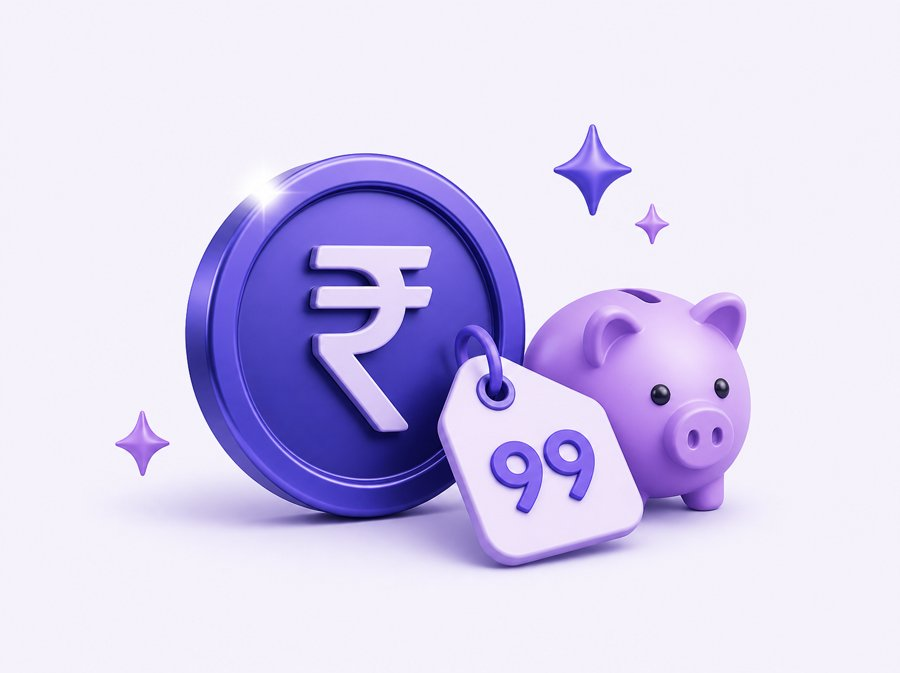
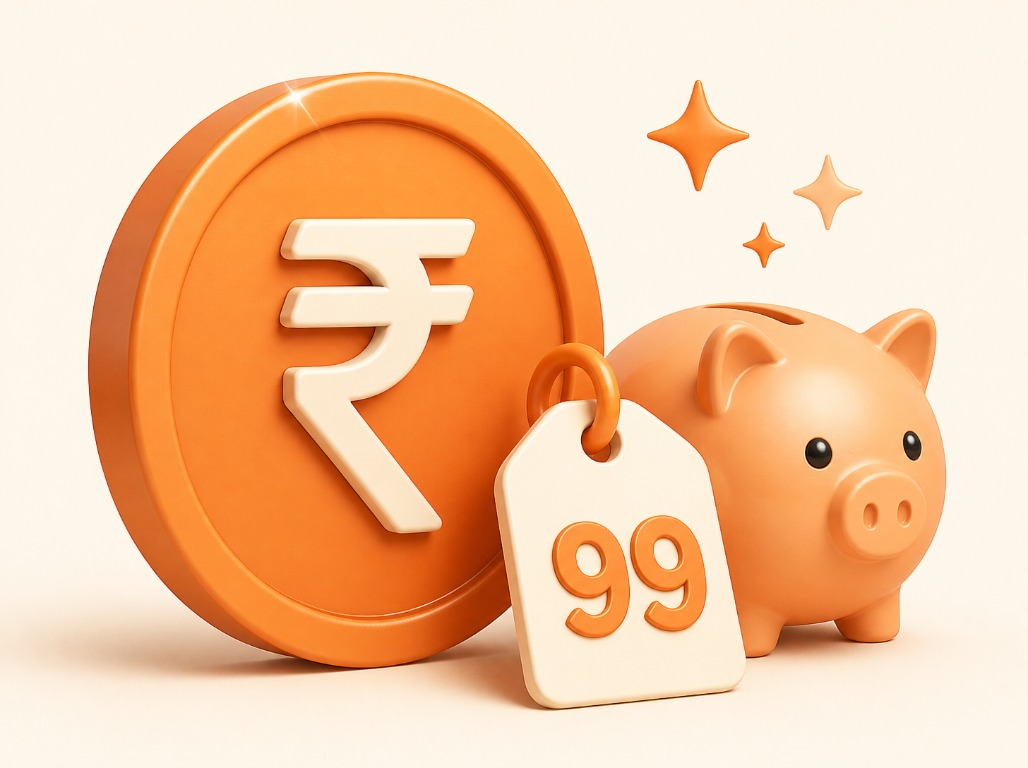
Use orange artwork across website

diff --git a/index.html b/index.html
@@ -155,8 +155,8 @@ section{padding:100px 0;scroll-margin-top:80px}
 .prod{background:#fff;border:1px solid var(--line);border-radius:var(--radius);overflow:hidden;display:flex;flex-direction:column;transition:transform .3s,box-shadow .3s}
 .prod:hover{transform:translateY(-6px);box-shadow:var(--shadow)}
 .prod .thumb{aspect-ratio:4/3;background:var(--beige);position:relative;overflow:hidden}
-.prod .thumb svg{width:100%;height:100%;transition:transform .5s}
-.prod:hover .thumb svg{transform:scale(1.06)}
+.prod .thumb img{width:100%;height:100%;object-fit:cover;transition:transform .5s}
+.prod:hover .thumb img{transform:scale(1.06)}
 .prod .badge{position:absolute;top:14px;left:14px;background:var(--orange);color:#fff;font-family:var(--head);font-weight:700;font-size:12px;padding:4px 12px;border-radius:30px}
 .prod .body{padding:22px 22px 24px;display:flex;flex-direction:column;flex:1}
 .prod .cat{font-size:12.5px;color:var(--orange);font-weight:600;text-transform:uppercase;letter-spacing:.08em}
@@ -471,7 +471,7 @@ window.setTimeout(function(){
       </div>
 
       <div class="hero-art rv in">
-        <img src="hero-orange.jpg" alt="Orange website displayed on a tablet with video and learning materials">
+        <img src="website.jpg" alt="Website design displayed on a laptop and phone in warm orange tones">
         <div class="hero-badge">
           <div class="p">₹99</div>
           <div><b style="font-family:var(--head)">One-time</b><small>No subscription</small></div>
@@ -571,15 +571,7 @@ window.setTimeout(function(){
         <article class="prod rv">
           <div class="thumb">
             <span class="badge">Ready to use</span>
-            <svg viewBox="0 0 300 225" preserveAspectRatio="xMidYMid slice" aria-hidden="true">
-              <rect width="300" height="225" fill="#EADDC8"></rect>
-              <rect x="50" y="40" width="200" height="145" rx="8" fill="#fff"></rect>
-              <rect x="50" y="40" width="200" height="18" rx="8" fill="#1D1D1F"></rect><rect x="50" y="50" width="200" height="8" fill="#1D1D1F"></rect>
-              <rect x="64" y="74" width="80" height="10" rx="3" fill="#1D1D1F"></rect><rect x="64" y="90" width="60" height="10" rx="3" fill="#1D1D1F"></rect>
-              <rect x="64" y="110" width="40" height="14" rx="3" fill="#FF7A45"></rect>
-              <rect x="160" y="70" width="76" height="60" rx="6" fill="#FF7A45"></rect>
-              <rect x="64" y="144" width="52" height="28" rx="4" fill="#F8F3EC"></rect><rect x="124" y="144" width="52" height="28" rx="4" fill="#F8F3EC"></rect><rect x="184" y="144" width="52" height="28" rx="4" fill="#F8F3EC"></rect>
-            </svg>
+            <img src="website.jpg" alt="Premium website displayed on a laptop and phone" loading="lazy" decoding="async">
           </div>
           <div class="body">
             <span class="cat">Website</span>
@@ -591,12 +583,7 @@ window.setTimeout(function(){
         <article class="prod rv">
           <div class="thumb">
             <span class="badge">Immediate access</span>
-            <svg viewBox="0 0 300 225" preserveAspectRatio="xMidYMid slice" aria-hidden="true">
-              <rect width="300" height="225" fill="#1D1D1F"></rect>
-              <circle cx="150" cy="112" r="62" fill="none" stroke="#FF7A45" stroke-width="10"></circle>
-              <path d="M150 72v42l26 16" fill="none" stroke="#fff" stroke-width="10" stroke-linecap="round" stroke-linejoin="round"></path>
-              <path d="M230 48l-14 20h12l-4 18 16-24h-12z" fill="#FF7A45"></path>
-            </svg>
+            <img src="delivery.jpg" alt="Website delivery and instant access shown on a phone" loading="lazy" decoding="async">
           </div>
           <div class="body">
             <span class="cat">Delivery</span>
@@ -608,12 +595,7 @@ window.setTimeout(function(){
         <article class="prod rv">
           <div class="thumb">
             <span class="badge">One-time ₹99</span>
-            <svg viewBox="0 0 300 225" preserveAspectRatio="xMidYMid slice" aria-hidden="true">
-              <rect width="300" height="225" fill="#FFE9DF"></rect>
-              <rect x="80" y="44" width="140" height="140" rx="14" fill="#fff"></rect>
-              <rect x="80" y="44" width="140" height="34" rx="14" fill="#FF7A45"></rect><rect x="80" y="64" width="140" height="14" fill="#FF7A45"></rect>
-              <text x="150" y="146" text-anchor="middle" font-family="Montserrat, Arial, sans-serif" font-weight="800" font-size="46" fill="#1D1D1F">₹99</text>
-            </svg>
+            <img src="price.jpg" alt="₹99 one-time price represented by a coin and price tag" loading="lazy" decoding="async">
           </div>
           <div class="body">
             <span class="cat">Pricing</span>
@@ -625,13 +607,7 @@ window.setTimeout(function(){
         <article class="prod rv">
           <div class="thumb">
             <span class="badge">Razorpay</span>
-            <svg viewBox="0 0 300 225" preserveAspectRatio="xMidYMid slice" aria-hidden="true">
-              <rect width="300" height="225" fill="#EADDC8"></rect>
-              <rect x="60" y="58" width="180" height="112" rx="14" fill="#1D1D1F"></rect>
-              <rect x="60" y="82" width="180" height="20" fill="#FF7A45"></rect>
-              <rect x="78" y="124" width="60" height="10" rx="4" fill="#6B6B70"></rect><rect x="78" y="142" width="38" height="10" rx="4" fill="#6B6B70"></rect>
-              <circle cx="198" cy="140" r="14" fill="#FF7A45"></circle><circle cx="214" cy="140" r="14" fill="#EADDC8" fill-opacity=".8"></circle>
-            </svg>
+            <img src="secure.jpg" alt="Secure payment protected by a shield and lock" loading="lazy" decoding="async">
           </div>
           <div class="body">
             <span class="cat">Payments</span>
